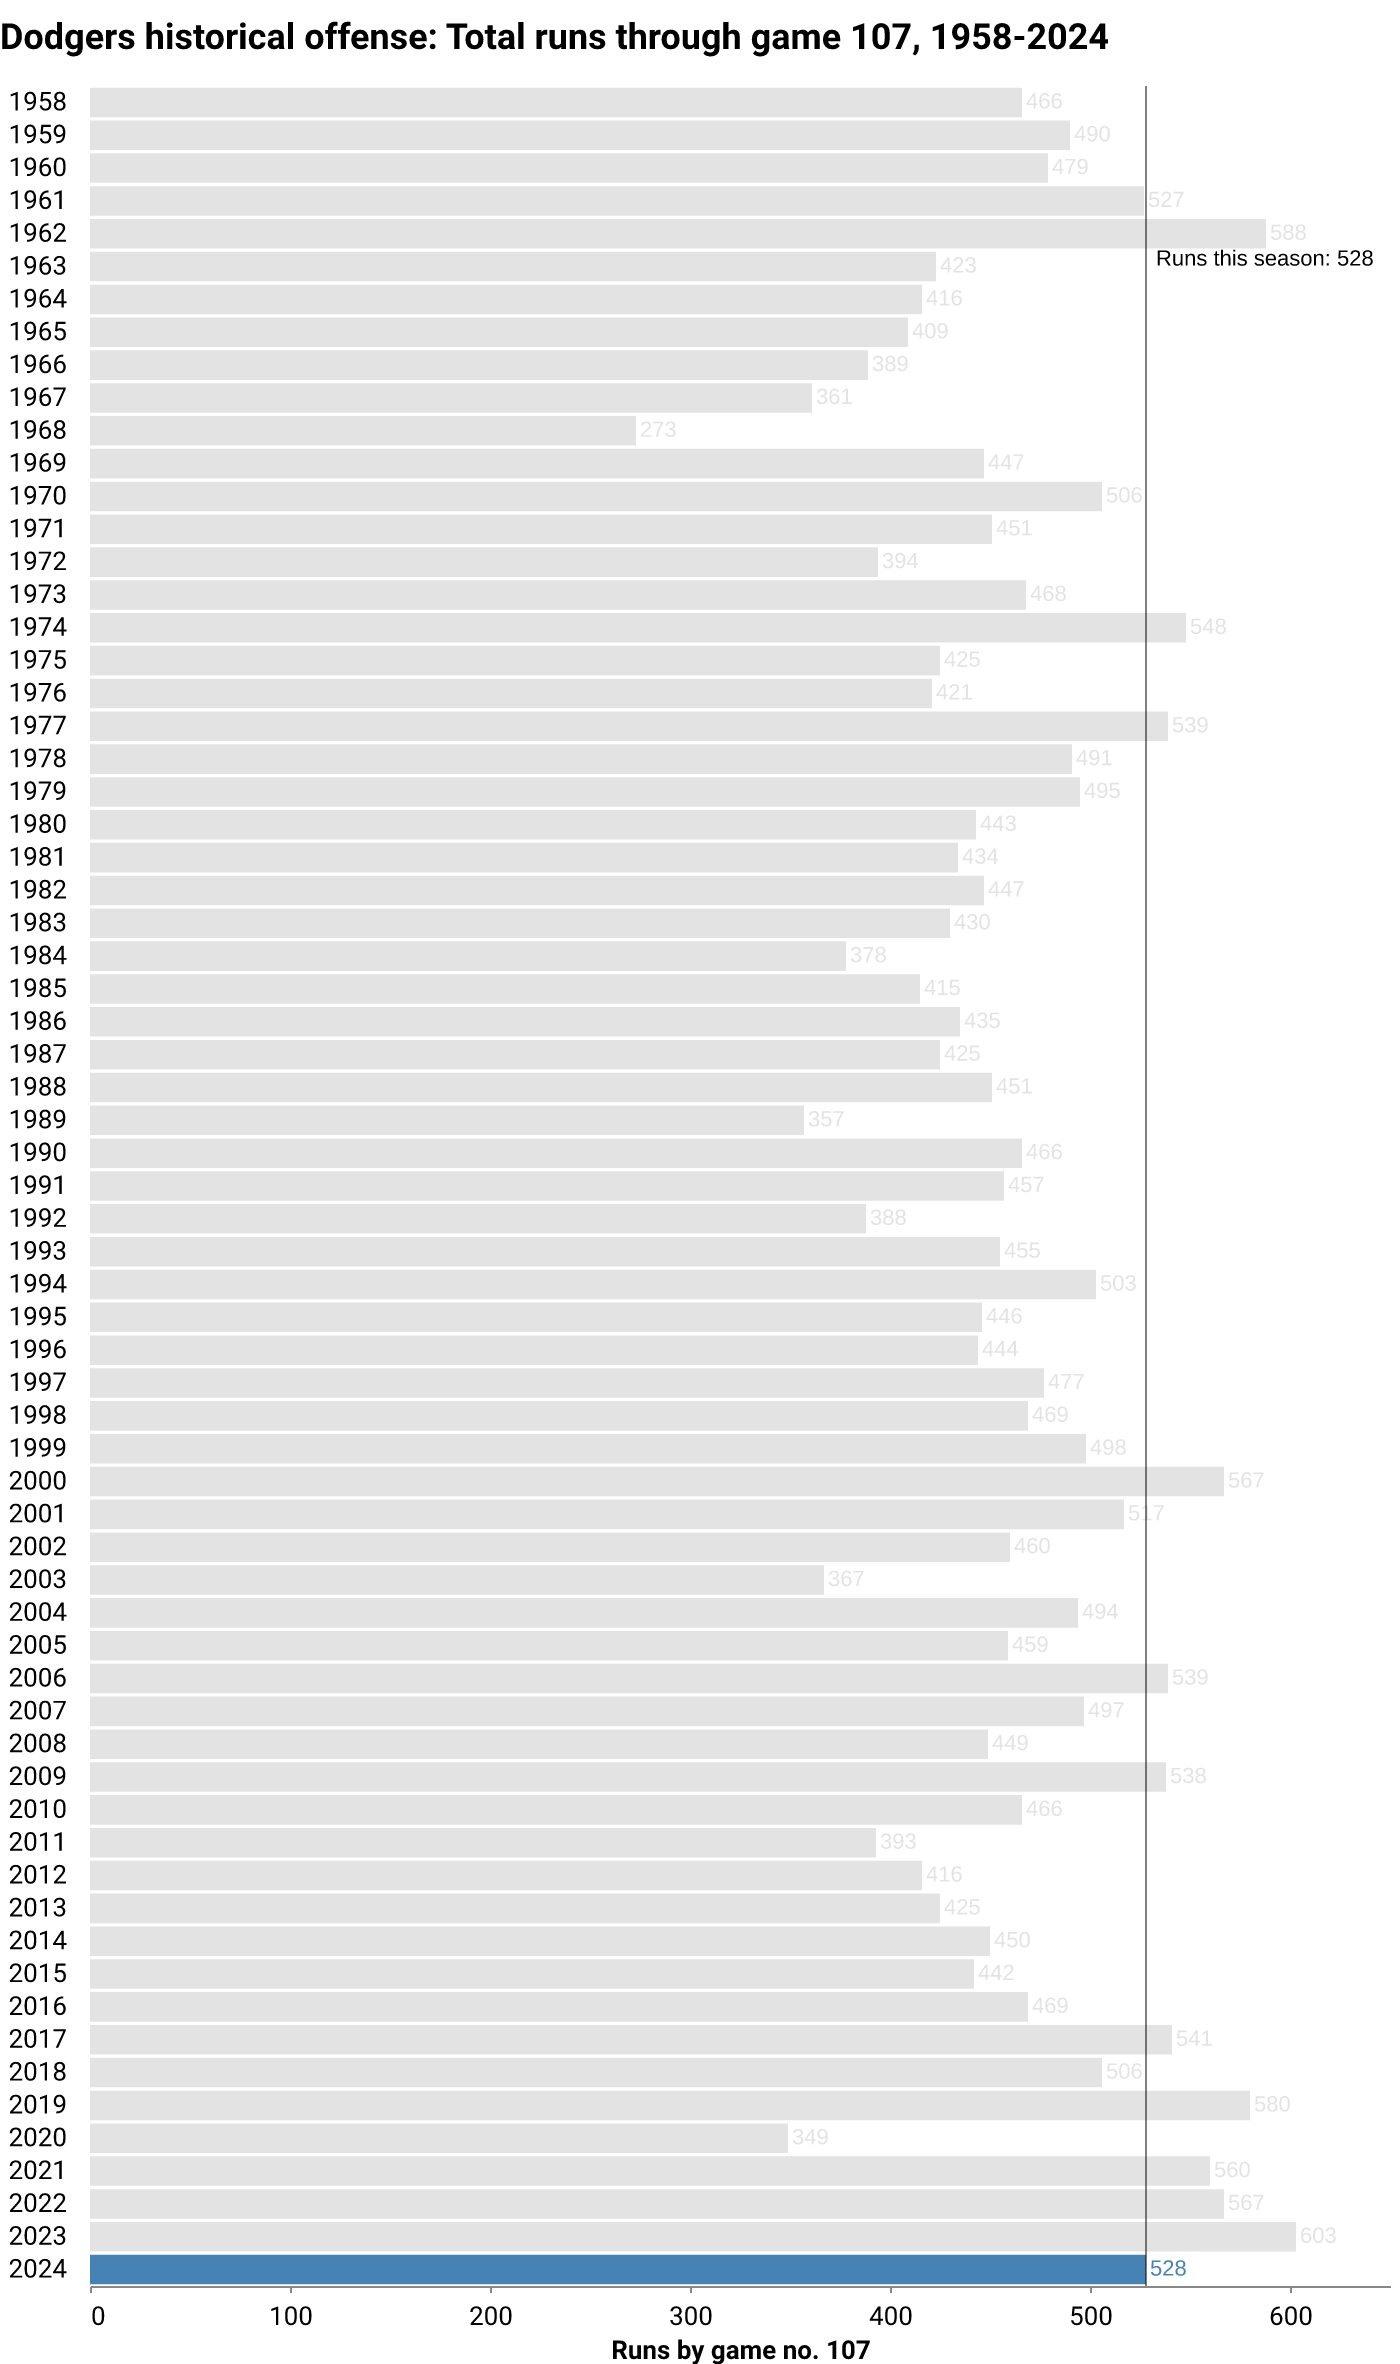
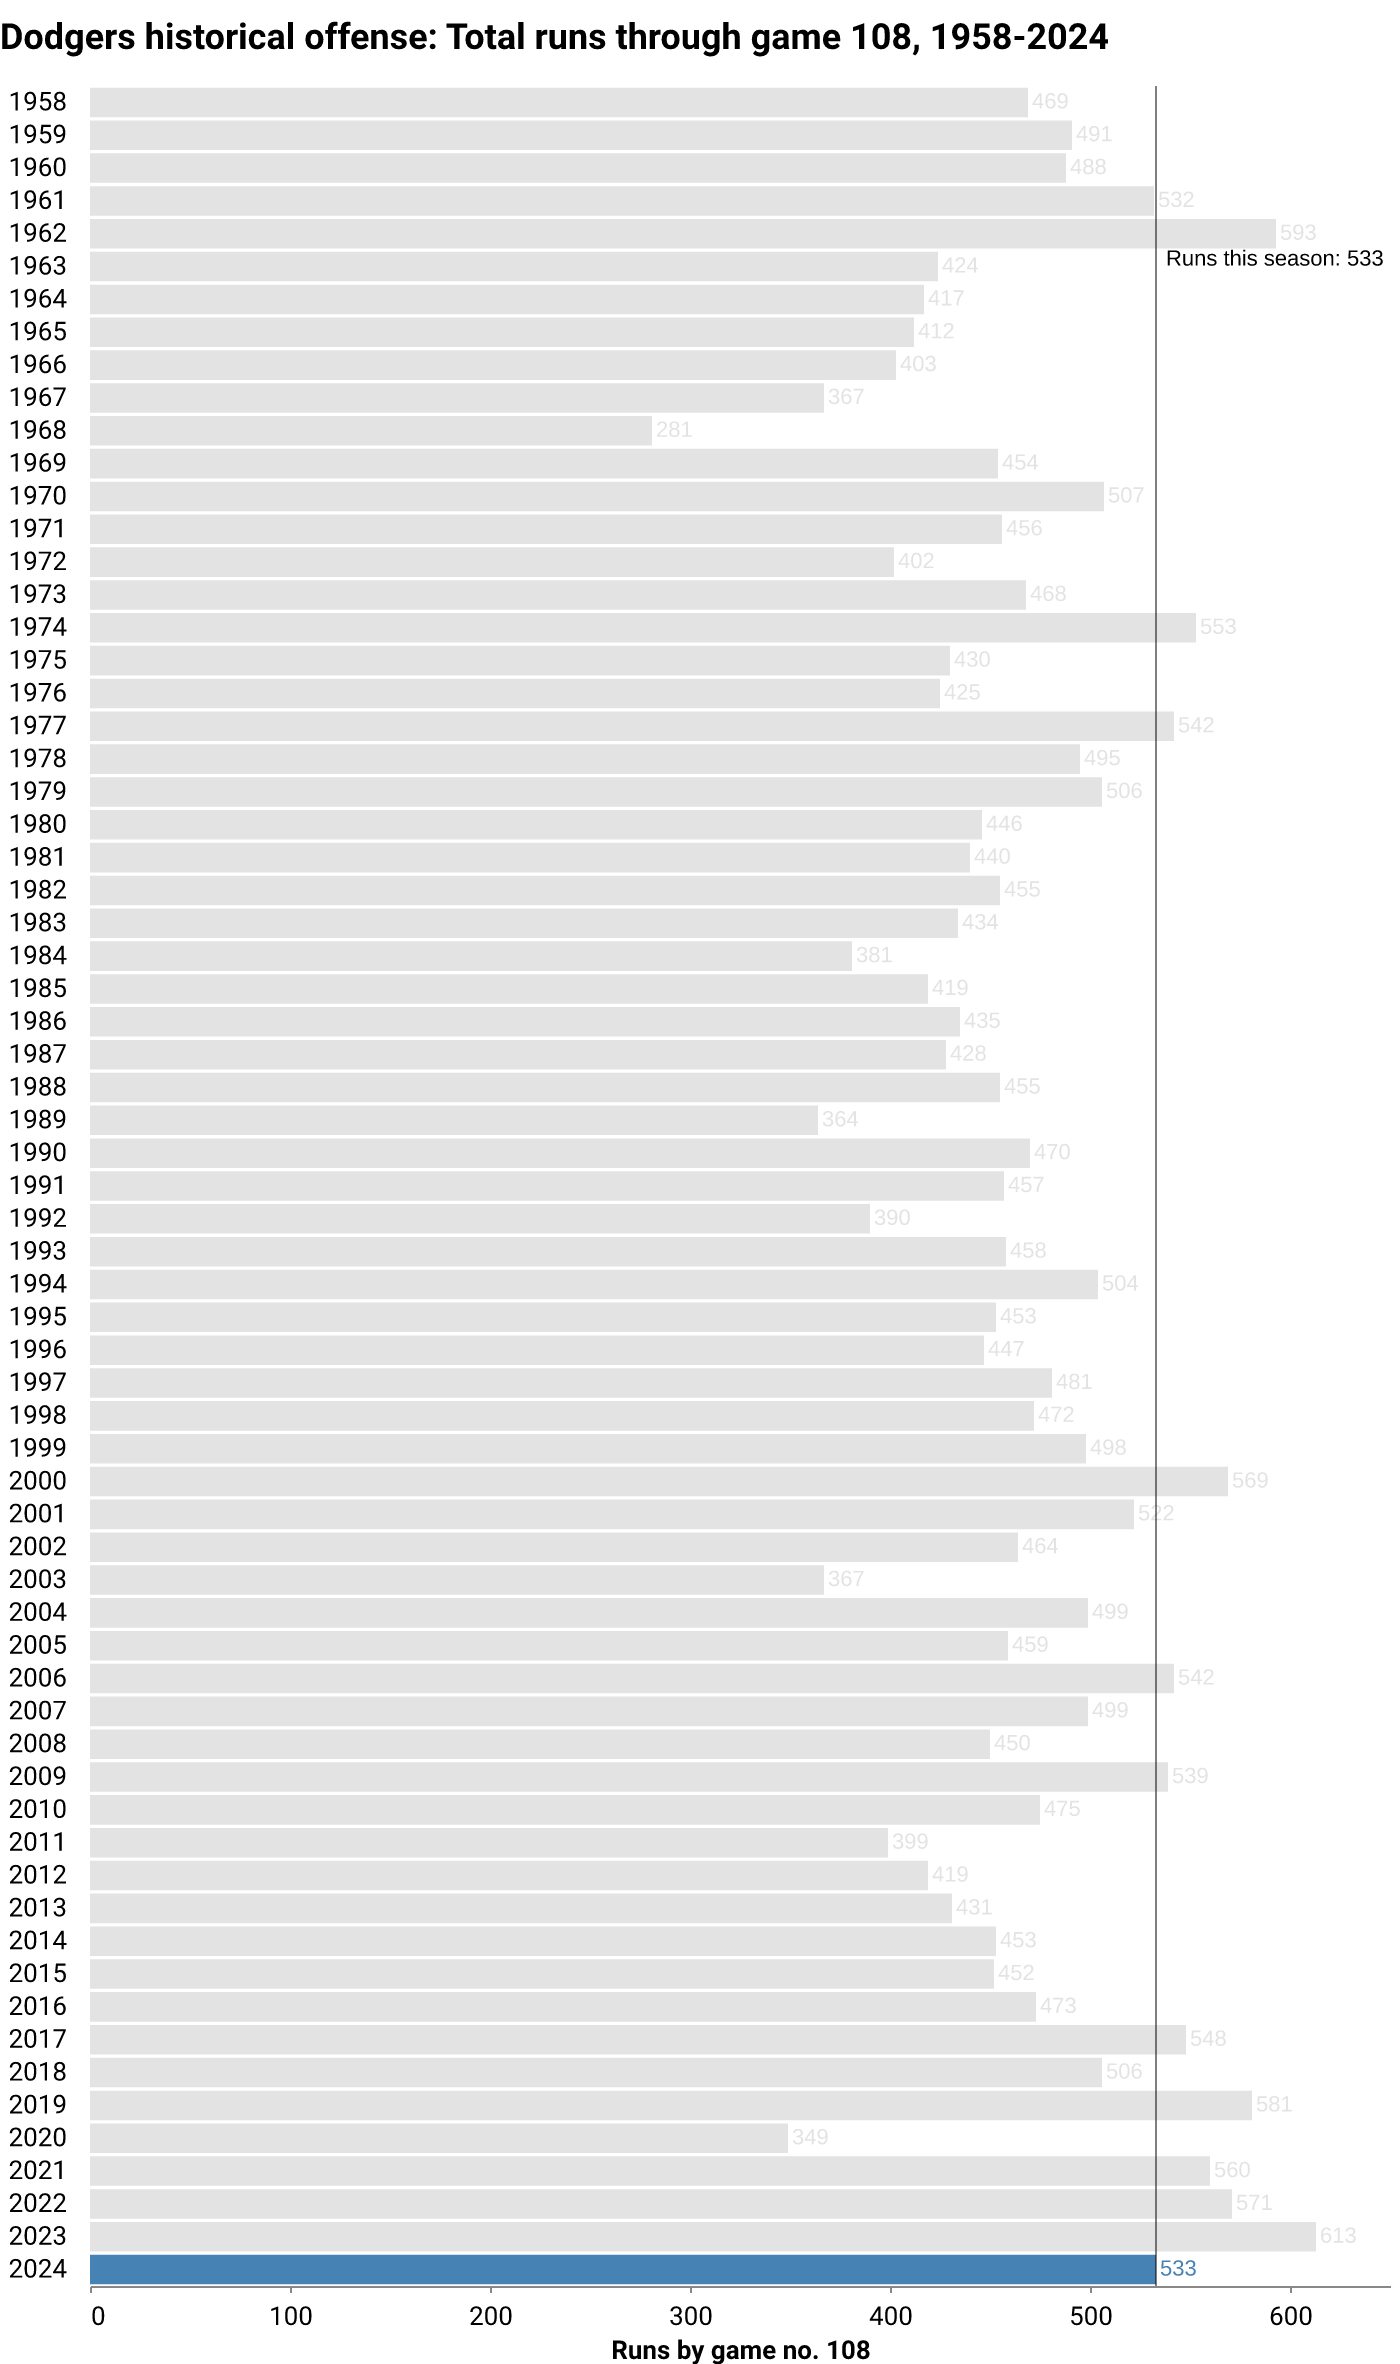
deploy: 0d0ecb981577b08ee2ef0e5feedc02debe76cf18

diff --git a/index.html b/index.html
@@ -177,14 +177,14 @@
     
     
     
-        <i class="fa-solid fa-arrow-trend-up" style="color: #005a9c;"></i>
+        <i class="fa-solid fa-arrow-trend-down" style="color: #ef3e42;"></i>
     
 </div>
 <h1 class="headline">How are the Dodgers doing?</h1>
 <p class="subhead">
     
     
-    <span class="highlight">LOS ANGELES</span> <span class="updated">(July 31)</span> — After <span class="highlight">107</span> games this season, the Dodgers are in <span class="highlight">1st</span> place in the National League West division. The team has compiled a <span class="highlight">63-44</span> record, winning <span class="highlight">59%</span> of its games so far. The last game was a <span class="highlight">6-2</span> away <span class="highlight">win</span> against the Houston Astros in front of <span class="highlight">41,418</span> fans. They've won <span class="highlight">7 of the last 10</span>.
+    <span class="highlight">LOS ANGELES</span> <span class="updated">(July 31)</span> — After <span class="highlight">108</span> games this season, the Dodgers are in <span class="highlight">1st</span> place in the National League West division. The team has compiled a <span class="highlight">63-45</span> record, winning <span class="highlight">57%</span> of its games so far. The last game was a <span class="highlight">5-6</span> away <span class="highlight">loss</span> against the San Diego Padres in front of <span class="highlight">47,559</span> fans. They've won <span class="highlight">6 of the last 10</span>.
 </p>
 </div>
 
@@ -209,7 +209,7 @@
             <p class="card-text">63</p>
           </div>
           <div class="card-footer text-muted">
-        This point last season: 62
+        This point last season: 63
           </div>
         </div>
       </div>
@@ -222,7 +222,7 @@
             Losses
           </div>
           <div class="card-body">
-            <p class="card-text">44</p>
+            <p class="card-text">45</p>
           </div>
           <div class="card-footer text-muted">
         This point last season: 45
@@ -238,10 +238,10 @@
             Record
           </div>
           <div class="card-body">
-            <p class="card-text">63-44</p>
+            <p class="card-text">63-45</p>
           </div>
           <div class="card-footer text-muted">
-        This point last season: 62-45
+        This point last season: 63-45
           </div>
         </div>
       </div>
@@ -254,7 +254,7 @@
             Win percentage
           </div>
           <div class="card-body">
-            <p class="card-text">59%</p>
+            <p class="card-text">57%</p>
           </div>
           <div class="card-footer text-muted">
         This point last season: 57%
@@ -270,7 +270,7 @@
             Games up/back
           </div>
           <div class="card-body">
-            <p class="card-text">6.5</p>
+            <p class="card-text">5.5</p>
           </div>
           <div class="card-footer text-muted">
         Division rank: 1
@@ -302,7 +302,7 @@
             Runs
           </div>
           <div class="card-body">
-            <p class="card-text">528</p>
+            <p class="card-text">533</p>
           </div>
           <div class="card-footer text-muted">
         League rank: 2
@@ -318,10 +318,10 @@
             Runs against
           </div>
           <div class="card-body">
-            <p class="card-text">434</p>
+            <p class="card-text">440</p>
           </div>
           <div class="card-footer text-muted">
-        This point last season: 496
+        This point last season: 501
           </div>
         </div>
       </div>
@@ -334,10 +334,10 @@
             Run differential
           </div>
           <div class="card-body">
-            <p class="card-text">94</p>
+            <p class="card-text">93</p>
           </div>
           <div class="card-footer text-muted">
-        This point last season: 107
+        This point last season: 112
           </div>
         </div>
       </div>
@@ -408,7 +408,7 @@
             Batting average
           </div>
           <div class="card-body">
-            <p class="card-text">.254</p>
+            <p class="card-text">.253</p>
           </div>
           <div class="card-footer text-muted">
         Last decade average: .253
@@ -424,7 +424,7 @@
             Home runs
           </div>
           <div class="card-body">
-            <p class="card-text">146</p>
+            <p class="card-text">147</p>
           </div>
           <div class="card-footer text-muted">
         League rank: 1
@@ -472,10 +472,10 @@
             Stolen bases
           </div>
           <div class="card-body">
-            <p class="card-text">65</p>
+            <p class="card-text">67</p>
           </div>
           <div class="card-footer text-muted">
-        League rank: 10
+        League rank: 9
           </div>
         </div>
       </div>
@@ -488,7 +488,7 @@
             Stolen bases/game
           </div>
           <div class="card-body">
-            <p class="card-text">0.61</p>
+            <p class="card-text">0.62</p>
           </div>
           <div class="card-footer text-muted">
         Rate all last season: 0.65
@@ -598,7 +598,7 @@
             Strikeouts
           </div>
           <div class="card-body">
-            <p class="card-text">917</p>
+            <p class="card-text">928</p>
           </div>
           <div class="card-footer text-muted">
         League rank: 7
@@ -614,7 +614,7 @@
             Walks
           </div>
           <div class="card-body">
-            <p class="card-text">337</p>
+            <p class="card-text">340</p>
           </div>
           <div class="card-footer text-muted">
         League rank: 12
@@ -630,10 +630,10 @@
             ERA
           </div>
           <div class="card-body">
-            <p class="card-text">3.79</p>
+            <p class="card-text">3.80</p>
           </div>
           <div class="card-footer text-muted">
-        League rank: 5
+        League rank: 7
           </div>
         </div>
       </div>
@@ -708,7 +708,7 @@
     </div>
 </div>
 
-  <p class="dated">Notes: Last updated July 31, 2024, 4:03 AM PT. More <a href="https://github.com/stiles/dodgers/blob/main/README.md">about the data</a>.</p>
+  <p class="dated">Notes: Last updated July 31, 2024, 9:03 AM PT. More <a href="https://github.com/stiles/dodgers/blob/main/README.md">about the data</a>.</p>
   
 </div>
 
